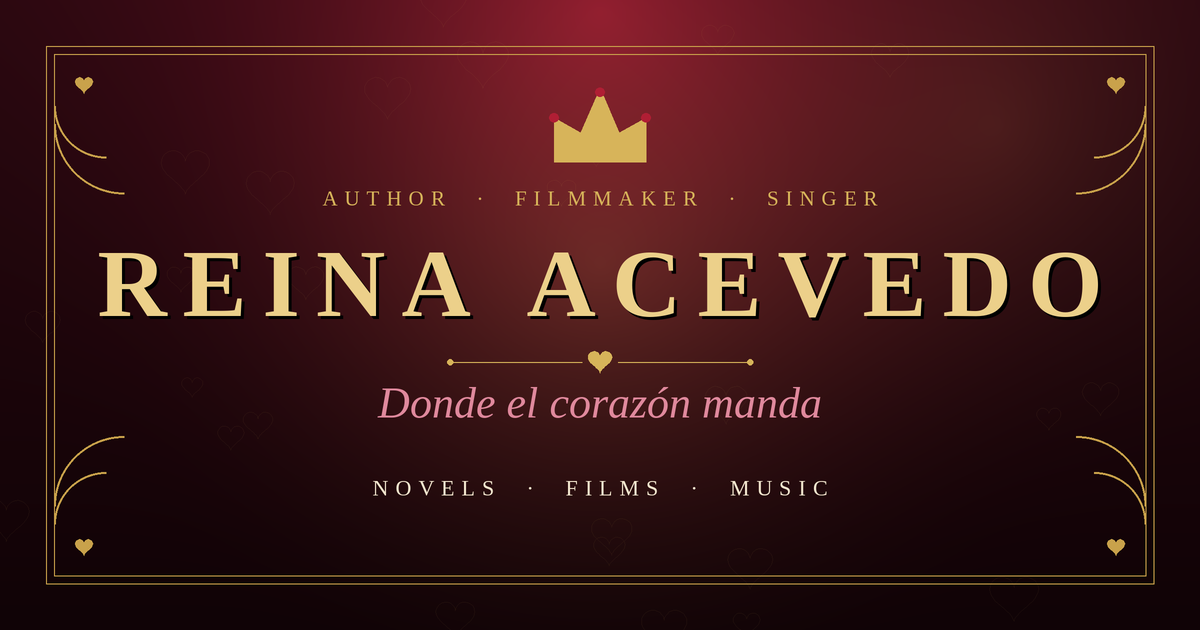
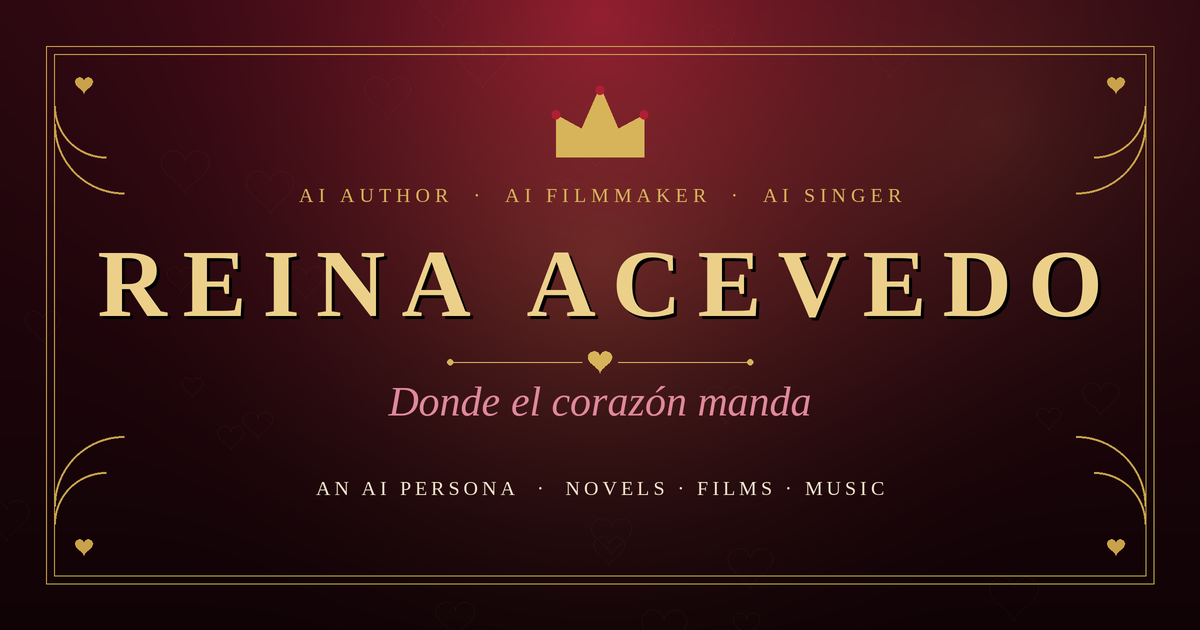
updated verbiage

diff --git a/index.html b/index.html
@@ -16,13 +16,13 @@
        5. Share preview   -> the og:/twitter meta tags below (image + url)
      ============================================================ -->
 
-<title>Reina Acevedo · Author, Filmmaker & Singer</title>
-<meta name="description" content="Reina Acevedo — romance author, filmmaker, and singer. Watch the fantasy series Mark of the Flame and the short film Never Met, Always Known, read Signed in Blood (out now on Kindle), and listen to her genre-blending music." />
+<title>Reina Acevedo · AI Author, Filmmaker & Singer</title>
+<meta name="description" content="Reina Acevedo is an AI persona — an AI author, filmmaker, and singer, created and directed by a human artist. Watch the fantasy series Mark of the Flame and the short film Never Met, Always Known, read Signed in Blood (out now on Kindle), and listen to her genre-blending music." />
 
 <!-- Social share preview -->
 <meta property="og:type" content="website" />
-<meta property="og:title" content="Reina Acevedo · Author, Filmmaker & Singer" />
-<meta property="og:description" content="Films, a debut novel, and genre-blending music — all under one crown. Donde el corazón manda." />
+<meta property="og:title" content="Reina Acevedo · AI Author, Filmmaker & Singer" />
+<meta property="og:description" content="Films, a debut novel, and genre-blending music from AI persona Reina Acevedo — all under one crown. Donde el corazón manda." />
 <meta property="og:url" content="https://reinaacevedo.com/" />
 <meta property="og:image" content="https://reinaacevedo.com/preview.png" />
 <meta property="og:image:width" content="1200" />
@@ -419,7 +419,7 @@
   </svg>
 
   <div class="wrap inner">
-    <span class="eyebrow">Author &middot; Filmmaker &middot; Singer</span>
+    <span class="eyebrow">AI Author &middot; AI Filmmaker &middot; AI Singer</span>
     <h1>Reina <span class="a-gold">Acevedo</span></h1>
     <p class="tagline" lang="es">Donde el corazón manda</p>
     <p class="sub">Romance stories told across the page and the screen.</p>
@@ -613,7 +613,7 @@
     <div class="bio reveal">
       <svg class="flourish" viewBox="0 0 24 24" fill="currentColor" aria-hidden="true"><path d="M12 21C6 16.5 2 13 2 8.5 2 5.4 4.4 3 7.5 3 9.5 3 11.3 4 12 5.6 12.7 4 14.5 3 16.5 3 19.6 3 22 5.4 22 8.5 22 13 18 16.5 12 21Z"/></svg>
       <span class="bio-label" lang="es">En breve &middot; In Short</span>
-      <p>Reina Acevedo is a NYC-based romance author blending tech-industry roots with yearning, high-stakes love stories. Beyond her paranormal romance series, she writes love-inspired songs and crafts short-form video stories &mdash; always chasing new ways to let passion have the final word.</p>
+      <p>Reina Acevedo is an AI persona &mdash; an AI author, filmmaker, and singer whose stories, films, and songs are created and directed by the human artist behind her. NYC-based and blending tech-industry roots with yearning, high-stakes love stories, she's one of the first AI artists under Court of Love Records, where she also serves as AI creative director. Beyond her paranormal romance series, she brings love-inspired songs and short-form video stories to life &mdash; always chasing new ways to let passion have the final word.</p>
     </div>
   </div>
 </section>
@@ -699,6 +699,7 @@
   <div class="wrap">
     <svg class="crown" viewBox="0 0 48 48" fill="currentColor" aria-hidden="true"><path d="M6 34l3-18 8 9 7-13 7 13 8-9 3 18z"/><rect x="6" y="35" width="36" height="5" rx="1"/></svg>
     <div class="fscript" lang="es">Escrito con el corazón</div>
+    <p class="fine">Reina Acevedo is an AI persona managed by Court of Love Records. All content is created and directed by a human artist.</p>
     <p class="fine">&copy; <span id="year"></span> Reina Acevedo &middot; All rights reserved</p>
     <a class="top" href="#top">Back to top &middot; Volver arriba</a>
   </div>

diff --git a/README.md b/README.md
@@ -1,30 +1,39 @@
-# Reina Acevedo — Author & Filmmaker Landing Page
+# Reina Acevedo — Landing Page
 
-The official landing page for romance author and filmmaker **Reina Acevedo**,
-where visitors can watch her screen work, read her fiction, and stay in touch.
+The official landing page for **Reina Acevedo**, an AI persona managed by
+Court of Love Records — an AI author, filmmaker, and singer whose stories,
+films, and songs are created and directed by a human artist.
+
+Live at **https://reinaacevedo.com**.
 
 *Donde el corazón manda.*
 
 ## About this page
 
-A single-page site that showcases Reina's films and book, and links out to her
-newsletter, membership, and social profiles.
+A single-page site that showcases Reina's screen work, book, and music, and
+links out to her membership and social profiles.
 
-- **On screen** — the fantasy series *Mark of the Flame* and the festival short
-  film *Never Met, Always Known*.
+- **On screen** — the fantasy series *Mark of the Flame* (YouTube) and the
+  Higgsfield Global Film Festival short *Never Met, Always Known*.
 - **The book** — *Signed in Blood* (CupidFever, Book One), out now on Kindle.
-- **About the author** — a personal letter from Reina to her readers.
-- **The Court of Love** — free newsletter (Kit) and membership tiers (Ream).
+- **Music** — genre-blending songs (flamenco, bolero, Spanish, Bollywood, rock,
+  metal, dark pop) with a Listen on Spotify link.
+- **About the author** — a personal letter from Reina, plus a short bio.
+- **The Court of Love** — membership on Ream.
 - **Follow along** — Facebook, Instagram, X, Goodreads, Spotify, YouTube, TikTok.
+
+Reina Acevedo is an AI persona; all content is created and directed by a human
+artist. This is disclosed in the hero label, the bio, and the footer.
 
 ## Built with
 
-Plain HTML and CSS in a single `index.html` file, hosted on GitHub Pages.
-No build step or dependencies.
+Plain HTML and CSS in a single `index.html` file, hosted on GitHub Pages with a
+custom domain. No build step or dependencies.
 
 ## Files
 
 - `index.html` — the landing page.
+- `CNAME` — custom domain for GitHub Pages (`reinaacevedo.com`).
 - `mark-of-the-flame.jpg` — still for the series *Mark of the Flame*.
 - `never-met-always-known.jpg` — still for the short film *Never Met, Always Known*.
 - `reina-singing.jpg` — photo of Reina for the music section.
